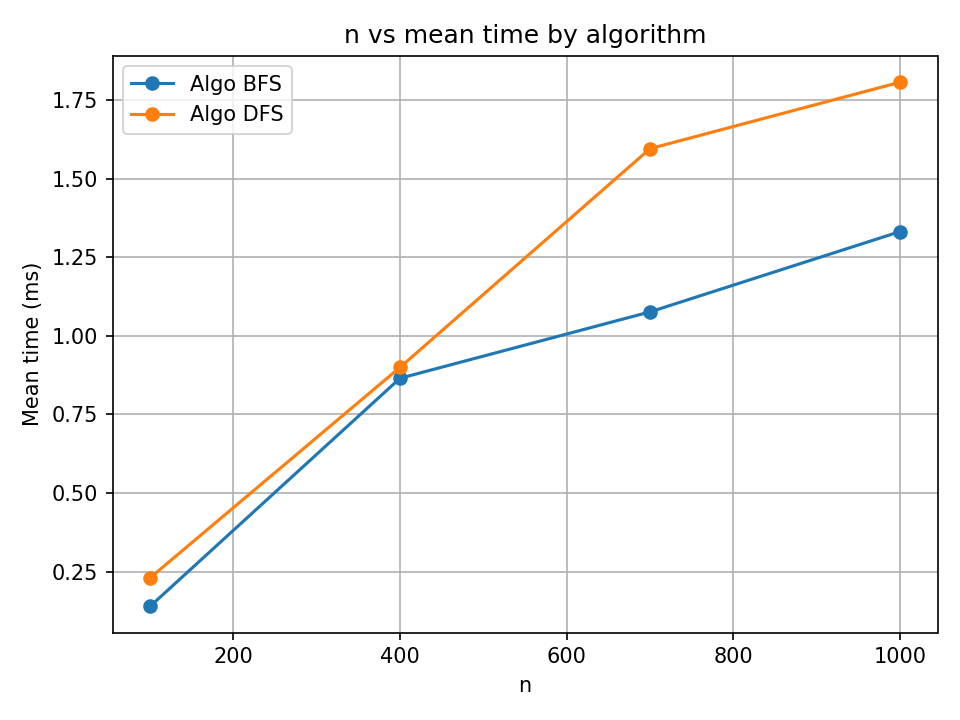
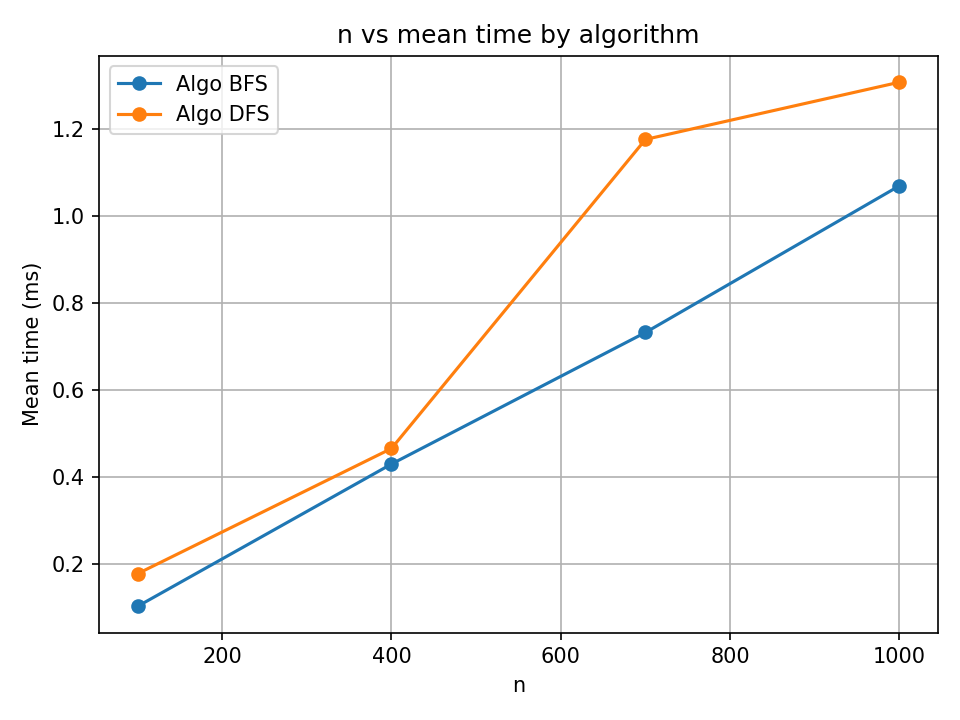
Jadikan peluang Uji Statistik ke persen

diff --git a/results/summary.tex b/results/summary.tex
@@ -2,13 +2,13 @@
 \toprule
 algo & n & Mean (ms) & SD (ms) & Gap \\
 \midrule
-BFS & 100 & 0.139300 & 0.011684 & 1.000000 \\
-BFS & 400 & 0.864980 & 0.275598 & 1.000000 \\
-BFS & 700 & 1.076100 & 0.422377 & 1.000000 \\
-BFS & 1000 & 1.331520 & 0.090993 & 1.000000 \\
-DFS & 100 & 0.230020 & 0.023094 & 1.000000 \\
-DFS & 400 & 0.899800 & 0.345680 & 1.000000 \\
-DFS & 700 & 1.595380 & 0.609018 & 1.000000 \\
-DFS & 1000 & 1.806780 & 0.314525 & 1.000000 \\
+BFS & 100 & 0.103200 & 0.019746 & 1.000000 \\
+BFS & 400 & 0.430480 & 0.062119 & 1.000000 \\
+BFS & 700 & 0.732940 & 0.105143 & 1.000000 \\
+BFS & 1000 & 1.070200 & 0.348207 & 1.000000 \\
+DFS & 100 & 0.178200 & 0.028802 & 1.000000 \\
+DFS & 400 & 0.466220 & 0.142937 & 1.000000 \\
+DFS & 700 & 1.176860 & 0.358587 & 1.000000 \\
+DFS & 1000 & 1.308420 & 0.115459 & 1.000000 \\
 \bottomrule
 \end{tabular}
